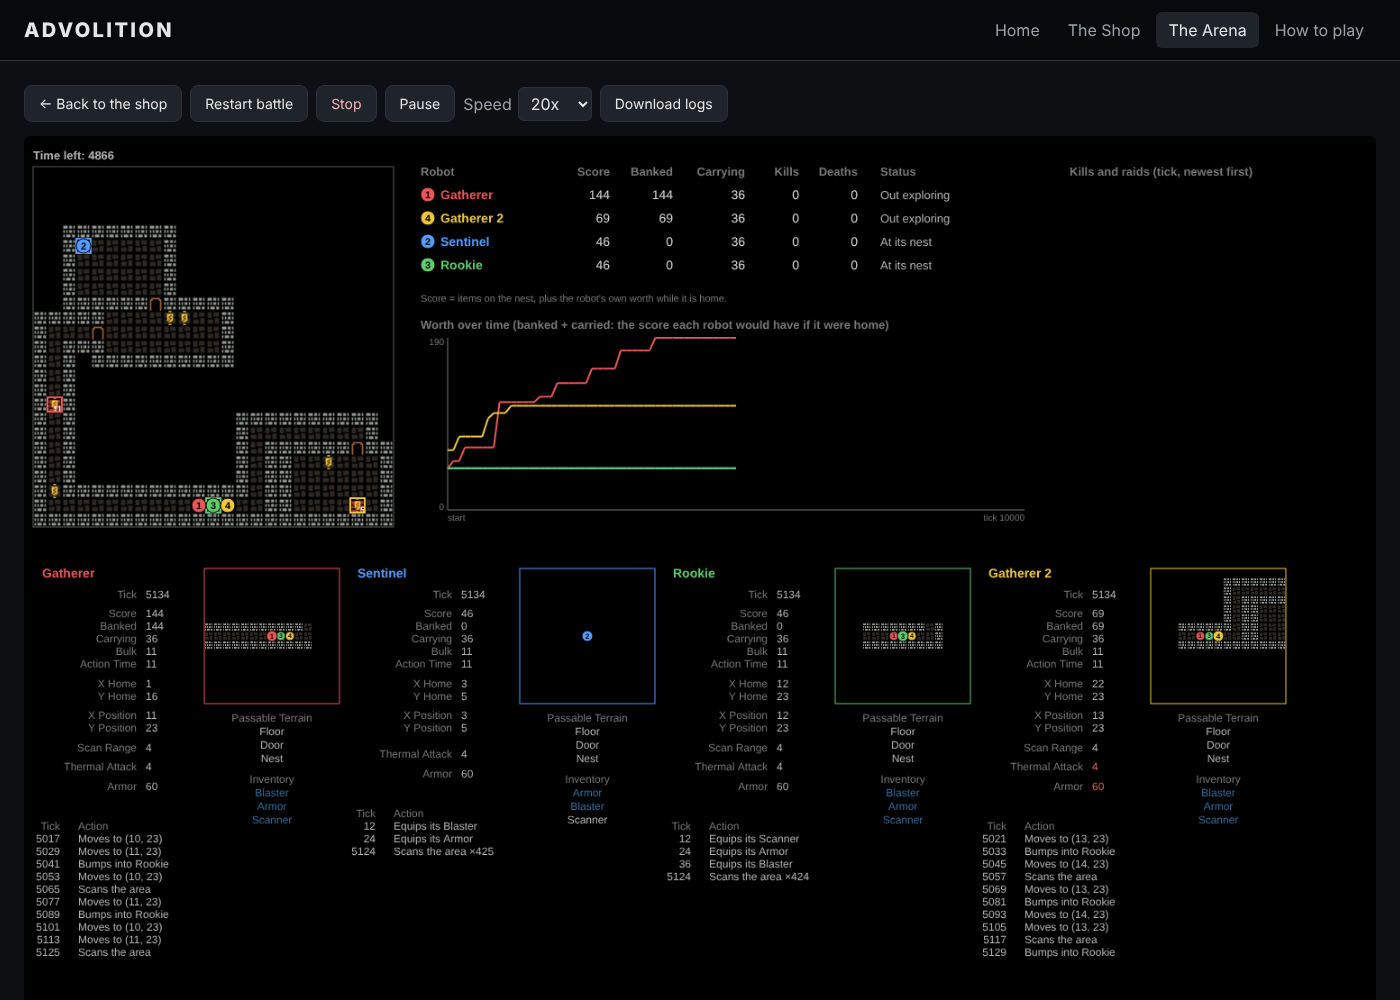
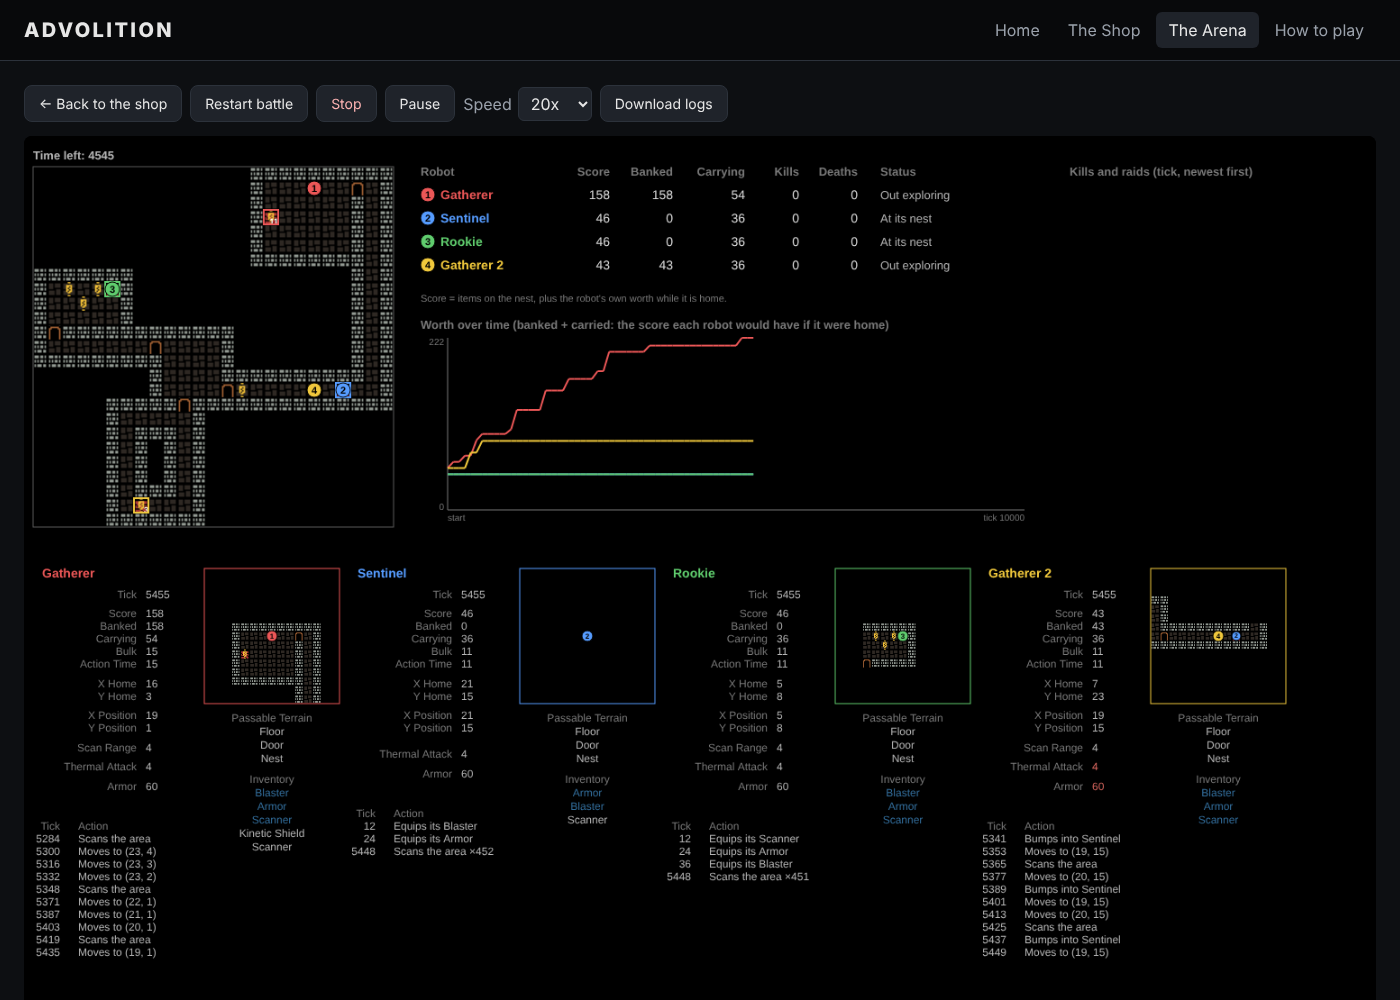
Color regular expressions after a block or a comment
The highlighter now tracks what came before each token as it scans,
skipping comments, so a regular expression after a comment is recognized.
It also tracks whether each "{" opens a block of code or an object
literal: after a block's closing brace a new statement starts, so a "/"
there begins a regular expression, while after an object's brace it is
still a division.

Claude-Session: https://claude.ai/code/session_01TyGReu1t8K7G9vJf8sBL54

diff --git a/Code/src/code_editor.ts b/Code/src/code_editor.ts
@@ -33,22 +33,26 @@ namespace CodeEditor {
     // Words after which a "/" starts a regular expression rather than a division.
     const BEFORE_REGEX = new Set(['return', 'typeof', 'instanceof', 'in', 'of', 'new', 'delete', 'void', 'throw', 'case', 'do', 'else', 'yield', 'await']);
 
-    // The last non-space character before position i, and the word ending there.
-    function previous(code: string, i: number): { char: string, word: string } {
-        let j = i - 1;
-        while (j >= 0 && /\s/.test(code[j])) j--;
-        if (j < 0) return { char: '', word: '' };
-        let k = j;
-        while (k >= 0 && /[\w$]/.test(code[k])) k--;
-        return { char: code[j], word: code.slice(k + 1, j + 1) };
+    // What came just before the current position, ignoring spaces and comments:
+    // the last punctuation mark, or the last word. `blockEnd` says whether a
+    // closing brace ended a block of code (rather than an object).
+    interface Before { char: string, word: string, blockEnd: boolean }
+
+    // Whether a "/" here begins a regular expression rather than a division. It
+    // does unless it follows something that ends a value: a name, number,
+    // string, closing bracket, or the brace of an object. (After a block's
+    // closing brace a new statement starts, so it is a regular expression.)
+    function startsRegex(b: Before): boolean {
+        if (b.word) return BEFORE_REGEX.has(b.word) || (CONTROL.has(b.word) && b.word !== 'default');
+        if (b.char === '}') return b.blockEnd;
+        return !/^[)\]'"0]$/.test(b.char);
     }
 
-    // Whether a "/" at position i begins a regular expression: it does unless
-    // it follows something that ends a value (a name, number, or closing bracket).
-    function startsRegex(code: string, i: number): boolean {
-        const { char, word } = previous(code, i);
-        if (word) return BEFORE_REGEX.has(word) || (CONTROL.has(word) && word !== 'default');
-        return !/[)\]}'"`]/.test(char);
+    // Whether a "{" here opens a block of code (after `)`, `=>`, `else`, a class
+    // name, or at the start of a statement) rather than an object literal.
+    function opensBlock(b: Before): boolean {
+        if (b.word) return b.word === 'else' || b.word === 'do' || !BEFORE_REGEX.has(b.word);
+        return ['', ';', '{', '}', ')', '=>'].includes(b.char);
     }
 
     const escape = (s: string) => s.replace(/&/g, '&amp;').replace(/</g, '&lt;').replace(/>/g, '&gt;');
@@ -57,25 +61,49 @@ namespace CodeEditor {
     /** Returns the code as HTML with each token wrapped in a colored span. */
     export function highlight(code: string): string {
         let html = '', last = 0;
+        let before: Before = { char: '', word: '', blockEnd: false };
+        const braces: boolean[] = [];   // for each open "{": does it open a block?
+
+        // Notes the punctuation between tokens.
+        const punctuation = (text: string) => {
+            for (const c of text) {
+                if (/\s/.test(c)) continue;
+                let blockEnd = false, char = c;
+                if (c === '{') braces.push(opensBlock(before));
+                else if (c === '}') blockEnd = braces.length ? braces.pop()! : true;
+                else if (c === '>' && before.char === '=') char = '=>';
+                before = { char, word: '', blockEnd };
+            }
+        };
+
         TOKENS.lastIndex = 0;
         for (let m: RegExpExecArray | null; (m = TOKENS.exec(code)); ) {
-            html += escape(code.slice(last, m.index));
+            const gap = code.slice(last, m.index);
+            html += escape(gap);
+            punctuation(gap);
             last = TOKENS.lastIndex;
             if (m[1]) {
-                // Comments, with the card's @fields picked out.
+                // Comments, with the card's @fields picked out. They don't change `before`.
                 html += `<span class="tok-comment">${escape(m[1]).replace(/@(description|designer|version)\b/g, '<span class="tok-tag">@$1</span>')}</span>`;
             } else if (m[5]) {
-                if (startsRegex(code, m.index)) html += span('regex', m[5]);
-                else {
+                if (startsRegex(before)) {
+                    html += span('regex', m[5]);
+                    before = { char: ')', word: '', blockEnd: false };   // a value, like a closing bracket
+                } else {
                     // A division sign: leave it plain and read on from the next character.
                     html += '/';
+                    before = { char: '/', word: '', blockEnd: false };
                     TOKENS.lastIndex = last = m.index + 1;
                 }
-            } else if (m[2]) html += span('string', m[2]);
-            else if (m[3]) html += span('number', m[3]);
-            else {
+            } else if (m[2]) {
+                html += span('string', m[2]);
+                before = { char: '"', word: '', blockEnd: false };
+            } else if (m[3]) {
+                html += span('number', m[3]);
+                before = { char: '0', word: '', blockEnd: false };
+            } else {
                 const word = m[4];
-                const isProperty = previous(code, m.index).char === '.';
+                const isProperty = before.char === '.';
                 const next = code.slice(last).match(/^\s*(\S)/);
                 if (!isProperty && CONTROL.has(word)) html += span('control', word);
                 else if (!isProperty && KEYWORDS.has(word)) html += span('keyword', word);
@@ -84,6 +112,8 @@ namespace CodeEditor {
                 else if (/^[A-Z]/.test(word) && /[a-z]/.test(word)) html += span('class', word);
                 else if (isProperty) html += span('property', word);
                 else html += escape(word);
+                // A property named like a keyword (obj.return) is just a name.
+                before = { char: '', word: isProperty ? '_' : word, blockEnd: false };
             }
         }
         return html + escape(code.slice(last));

diff --git a/Code/dist/code_editor.js b/Code/dist/code_editor.js
@@ -31,55 +31,79 @@ var CodeEditor;
     ].join('|'), 'g');
     // Words after which a "/" starts a regular expression rather than a division.
     const BEFORE_REGEX = new Set(['return', 'typeof', 'instanceof', 'in', 'of', 'new', 'delete', 'void', 'throw', 'case', 'do', 'else', 'yield', 'await']);
-    // The last non-space character before position i, and the word ending there.
-    function previous(code, i) {
-        let j = i - 1;
-        while (j >= 0 && /\s/.test(code[j]))
-            j--;
-        if (j < 0)
-            return { char: '', word: '' };
-        let k = j;
-        while (k >= 0 && /[\w$]/.test(code[k]))
-            k--;
-        return { char: code[j], word: code.slice(k + 1, j + 1) };
+    // Whether a "/" here begins a regular expression rather than a division. It
+    // does unless it follows something that ends a value: a name, number,
+    // string, closing bracket, or the brace of an object. (After a block's
+    // closing brace a new statement starts, so it is a regular expression.)
+    function startsRegex(b) {
+        if (b.word)
+            return BEFORE_REGEX.has(b.word) || (CONTROL.has(b.word) && b.word !== 'default');
+        if (b.char === '}')
+            return b.blockEnd;
+        return !/^[)\]'"0]$/.test(b.char);
     }
-    // Whether a "/" at position i begins a regular expression: it does unless
-    // it follows something that ends a value (a name, number, or closing bracket).
-    function startsRegex(code, i) {
-        const { char, word } = previous(code, i);
-        if (word)
-            return BEFORE_REGEX.has(word) || (CONTROL.has(word) && word !== 'default');
-        return !/[)\]}'"`]/.test(char);
+    // Whether a "{" here opens a block of code (after `)`, `=>`, `else`, a class
+    // name, or at the start of a statement) rather than an object literal.
+    function opensBlock(b) {
+        if (b.word)
+            return b.word === 'else' || b.word === 'do' || !BEFORE_REGEX.has(b.word);
+        return ['', ';', '{', '}', ')', '=>'].includes(b.char);
     }
     const escape = (s) => s.replace(/&/g, '&amp;').replace(/</g, '&lt;').replace(/>/g, '&gt;');
     const span = (cls, text) => `<span class="tok-${cls}">${escape(text)}</span>`;
     /** Returns the code as HTML with each token wrapped in a colored span. */
     function highlight(code) {
         let html = '', last = 0;
+        let before = { char: '', word: '', blockEnd: false };
+        const braces = []; // for each open "{": does it open a block?
+        // Notes the punctuation between tokens.
+        const punctuation = (text) => {
+            for (const c of text) {
+                if (/\s/.test(c))
+                    continue;
+                let blockEnd = false, char = c;
+                if (c === '{')
+                    braces.push(opensBlock(before));
+                else if (c === '}')
+                    blockEnd = braces.length ? braces.pop() : true;
+                else if (c === '>' && before.char === '=')
+                    char = '=>';
+                before = { char, word: '', blockEnd };
+            }
+        };
         TOKENS.lastIndex = 0;
         for (let m; (m = TOKENS.exec(code));) {
-            html += escape(code.slice(last, m.index));
+            const gap = code.slice(last, m.index);
+            html += escape(gap);
+            punctuation(gap);
             last = TOKENS.lastIndex;
             if (m[1]) {
-                // Comments, with the card's @fields picked out.
+                // Comments, with the card's @fields picked out. They don't change `before`.
                 html += `<span class="tok-comment">${escape(m[1]).replace(/@(description|designer|version)\b/g, '<span class="tok-tag">@$1</span>')}</span>`;
             }
             else if (m[5]) {
-                if (startsRegex(code, m.index))
+                if (startsRegex(before)) {
                     html += span('regex', m[5]);
+                    before = { char: ')', word: '', blockEnd: false }; // a value, like a closing bracket
+                }
                 else {
                     // A division sign: leave it plain and read on from the next character.
                     html += '/';
+                    before = { char: '/', word: '', blockEnd: false };
                     TOKENS.lastIndex = last = m.index + 1;
                 }
             }
-            else if (m[2])
+            else if (m[2]) {
                 html += span('string', m[2]);
-            else if (m[3])
+                before = { char: '"', word: '', blockEnd: false };
+            }
+            else if (m[3]) {
                 html += span('number', m[3]);
+                before = { char: '0', word: '', blockEnd: false };
+            }
             else {
                 const word = m[4];
-                const isProperty = previous(code, m.index).char === '.';
+                const isProperty = before.char === '.';
                 const next = code.slice(last).match(/^\s*(\S)/);
                 if (!isProperty && CONTROL.has(word))
                     html += span('control', word);
@@ -95,6 +119,8 @@ var CodeEditor;
                     html += span('property', word);
                 else
                     html += escape(word);
+                // A property named like a keyword (obj.return) is just a name.
+                before = { char: '', word: isProperty ? '_' : word, blockEnd: false };
             }
         }
         return html + escape(code.slice(last));
